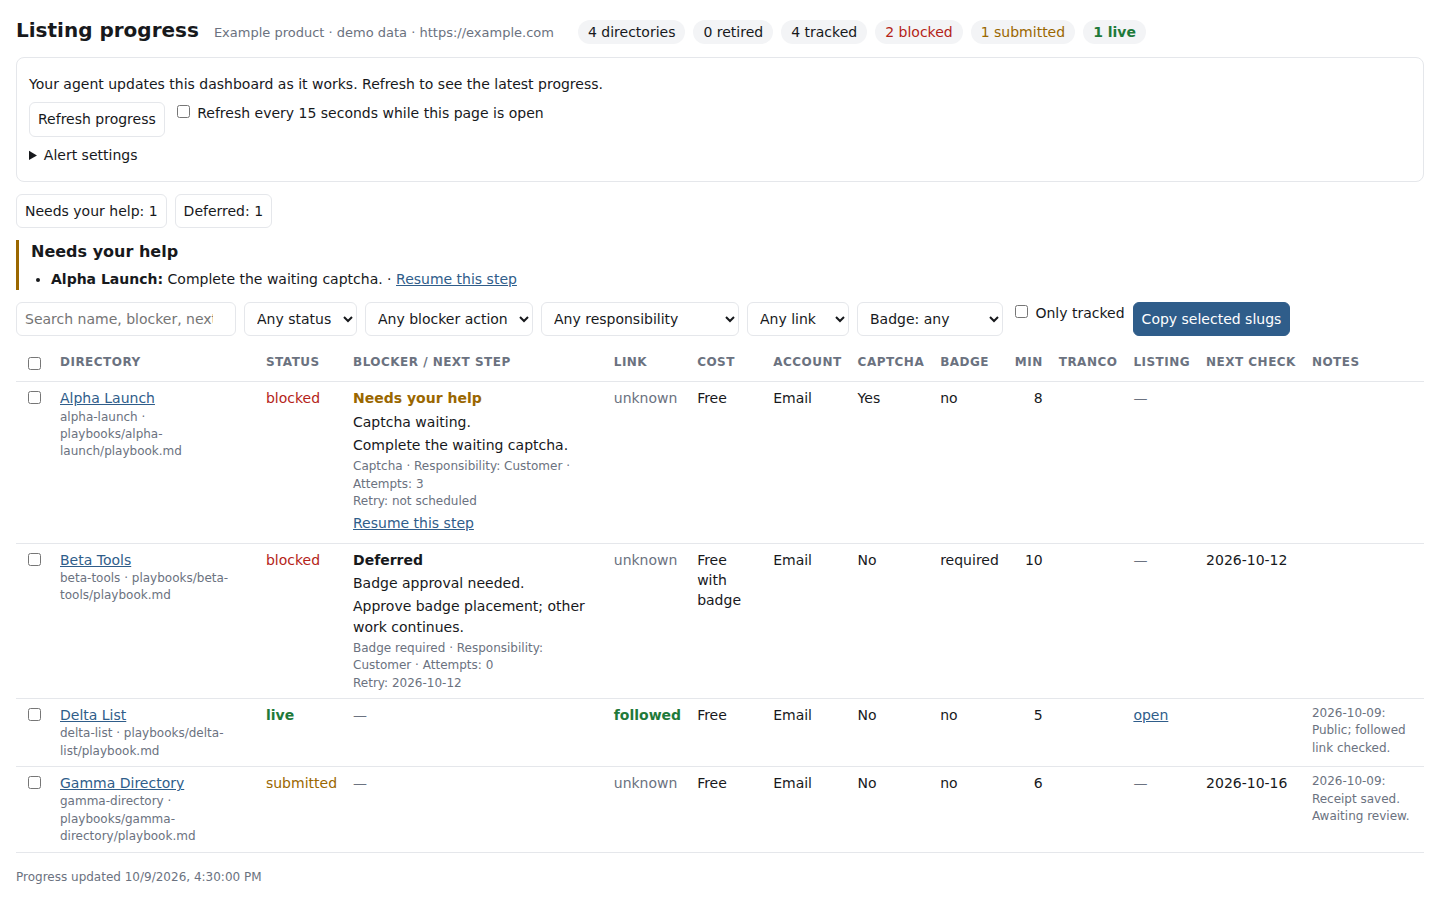
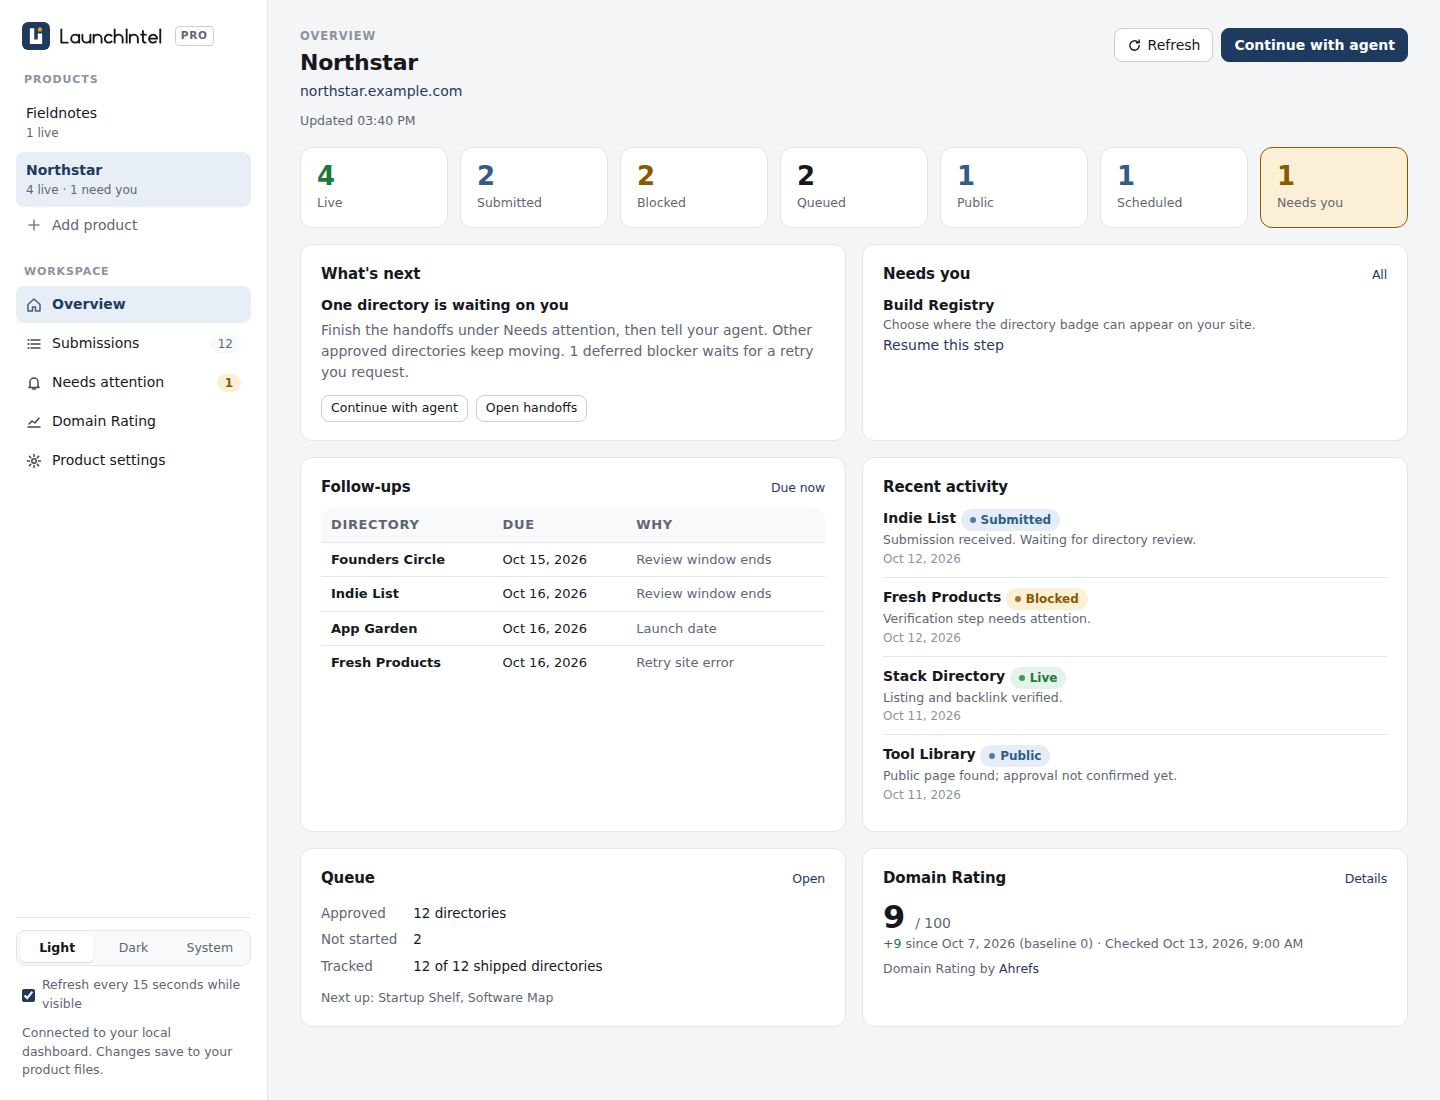
Present the working dashboard with demo screenshots and LaunchIntel mark

diff --git a/README.md b/README.md
@@ -1,4 +1,4 @@
-# LaunchIntel
+# <img src="assets/logo.svg" width="36" height="36" alt=""> LaunchIntel
 
 Let Claude work through your product's launch, with tested playbooks and a local dashboard.
 
@@ -8,7 +8,12 @@ module. Installing this skill alone does not provide the paid package or grant a
 
 [See the product and a sample guide](https://launchintel.dev)
 
-![Dashboard with example product data](assets/dashboard.png)
+<picture>
+  <source media="(prefers-color-scheme: dark)" srcset="assets/dashboard-dark.png">
+  <img alt="LaunchIntel dashboard with fictional demo products and example progress" src="assets/dashboard.png">
+</picture>
+
+*The working dashboard with fictional demo products and example progress.*
 
 ## Install
 
@@ -33,6 +38,17 @@ then loads the workflow from there. You approve the product facts and queue befo
 begin. In the paid workflow, you can exclude badges and choose whether blockers should wait for
 your help or be deferred while Claude continues.
 
+To open your dashboard, say:
+
+> Open my LaunchIntel dashboard.
+
+Switch products, edit their briefs and permissions, review blockers and prepare queues in the
+browser. Light and dark themes are included. Optional Ahrefs Domain Rating tracking records
+measurements locally, with daily checks only if you enable them. Your agent handles setup.
+
+<details>
+<summary>Manual package inspection</summary>
+
 To inspect an existing private clone without logging in, changing files or running a workflow:
 
 ```bash
@@ -42,13 +58,15 @@ node ~/.claude/skills/launchintel/scripts/inspect-package.mjs /path/to/launchint
 The check lists the installed modules and their private entrypoints. It does not print customer
 run data. An unsupported package version or unsafe path stops setup before any workflow is read.
 
+</details>
+
 Authentication happens through your Git tools. Never paste passwords, tokens or keys into chat.
 An access error can mean an unaccepted invitation or the wrong GitHub account; it does not
 necessarily mean you need to purchase again.
 
 ## What is public
 
-This skill, installation instructions and the example screenshot. The paid guides, directory
+This skill, installation instructions, the brand mark and demo screenshots. The paid guides, directory
 data, detailed workflow instructions and dashboard code are kept in a separate private repo.
 Your local run files and credentials are not uploaded to this public repo. During an approved
 submission, Claude sends the required product details to the directory you selected.
@@ -58,11 +76,19 @@ playbooks, customer data, credentials or order details to public issues.
 
 ## Updates
 
+Ask Claude to update LaunchIntel. It follows the paid package's update procedure and keeps your
+product files separate from shipped code.
+
+<details>
+<summary>Manual public skill update</summary>
+
 With a clean public skill checkout, run:
 
 ```bash
 git -C ~/.claude/skills/launchintel pull --ff-only
 ```
+
+</details>
 
 Update the paid package using its own README. Its workflow is read from the private clone each
 time, so paid changes do not need to be copied into this public repo.
